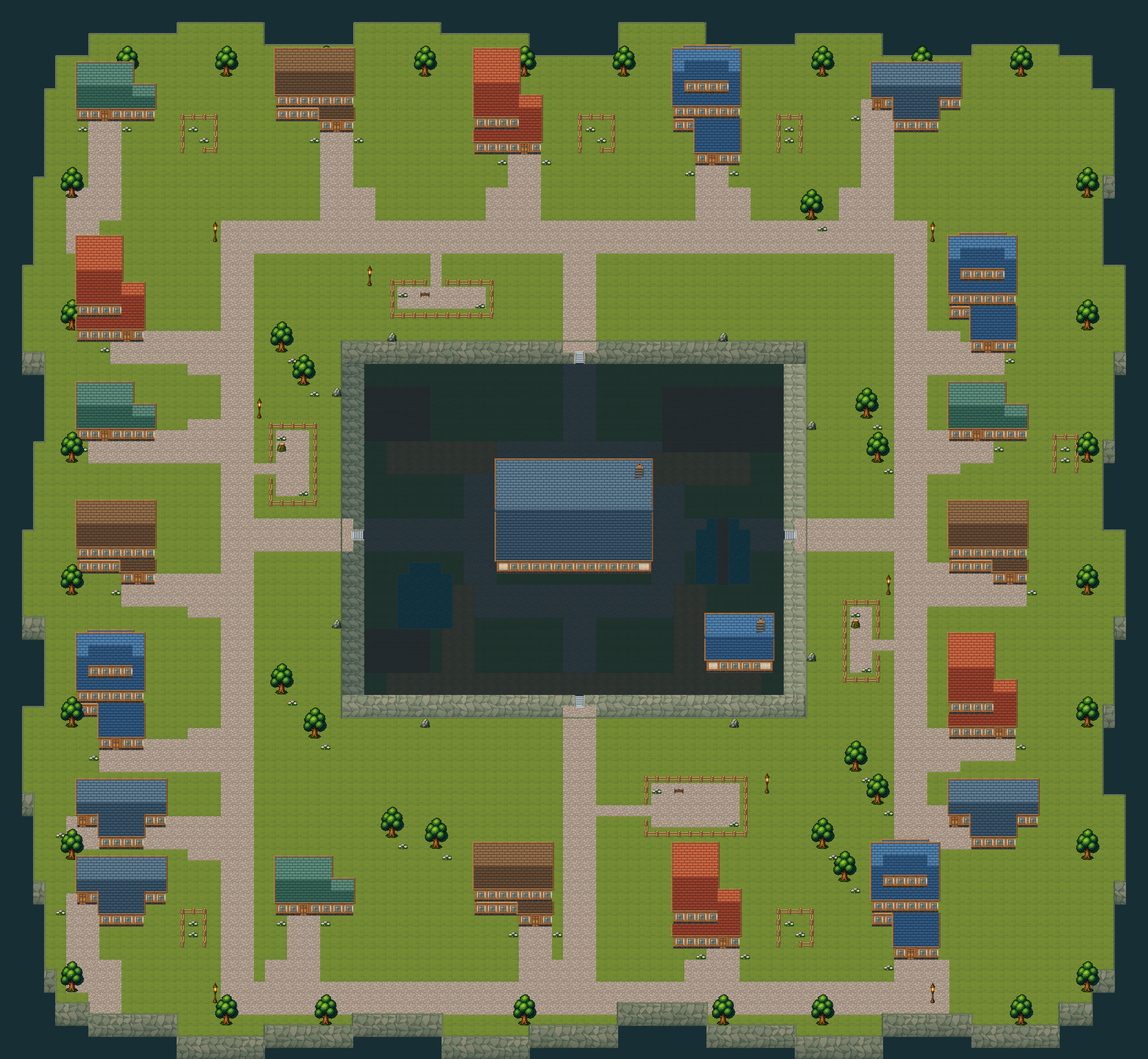
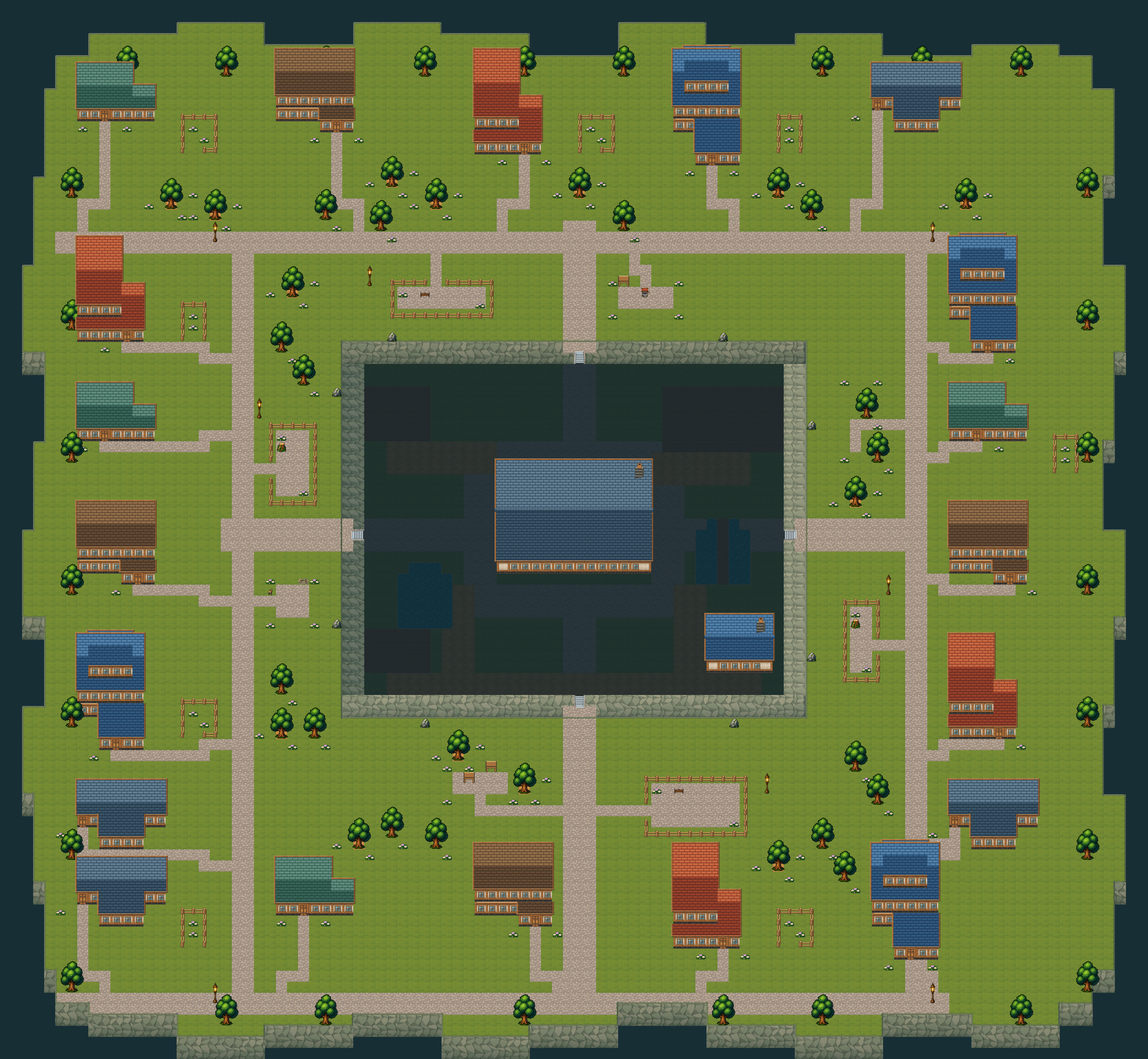
Refine Elderwood housing lanes, groves and shared neighborhood spaces

diff --git a/packages/game-data/src/neighborhood-life.ts b/packages/game-data/src/neighborhood-life.ts
@@ -1,0 +1,51 @@
+import {playerHouses,houseCells} from './housing';
+import {mapObject,type IslandObject} from './island-layout';
+export const neighborhoodPlaces=[
+ {name:'North Well Court',x:55,y:25,w:7,h:4,entry:{x:57,y:24},approach:{x:57,y:22}},
+ {name:'West Flower Walk',x:24,y:52,w:5,h:5,entry:{x:23,y:54},approach:{x:22,y:54}},
+ {name:'South Picnic Green',x:40,y:69,w:7,h:4,entry:{x:43,y:73},approach:{x:51,y:73}},
+ {name:'East Orchard',x:76,y:34,w:4,h:8,entry:{x:80,y:38},approach:{x:82,y:38}},
+] as const;
+/** Purposeful public spaces and loose planting, with all formal routes reserved. */
+export function refineNeighborhood(cells:number[][],objects:IslandObject[],blocked:Set<string>){
+ const homes=new Set(playerHouses.flatMap(h=>[...houseCells(h,0)])),visual=new Set<string>();
+ for(const o of objects)for(let y=Math.floor(o.y/48);y<Math.ceil((o.y+o.h)/48);y++)for(let x=Math.floor(o.x/48);x<Math.ceil((o.x+o.w)/48);x++)visual.add(`${x},${y}`);
+ const clear=(x:number,y:number,w=1,h=1,tree=false)=>{for(let yy=y;yy<y+h;yy++)for(let xx=x;xx<x+w;xx++){
+  if(cells[yy]?.[xx]!==0||blocked.has(`${xx},${yy}`)||homes.has(`${xx},${yy}`)||visual.has(`${xx},${yy}`))return false;
+  if(tree)for(let dy=-1;dy<=1;dy++)for(let dx=-1;dx<=1;dx++)if(homes.has(`${xx+dx},${yy+dy}`))return false;
+ }return true;};
+ const prop=(key:string,x:number,y:number,w=1,h=1,solid=true,name?:string)=>{
+  const o=mapObject(key,x*48,y*48,w*48,h*48,[],name);o.footY=(y+h-.15)*48;
+  if(solid){o.footprint={x:x+Math.floor(w/2),y:y+h-1,width:1,height:1};blocked.add(`${o.footprint.x},${o.footprint.y}`);}
+  objects.push(o);for(let yy=y;yy<y+h;yy++)for(let xx=x;xx<x+w;xx++)visual.add(`${xx},${yy}`);
+ };
+ const pave=(x:number,y:number,material=2)=>{if(cells[y]?.[x]===0&&!homes.has(`${x},${y}`)&&!blocked.has(`${x},${y}`))cells[y][x]=material;};
+ const connect=(a:{x:number;y:number},b:{x:number;y:number})=>{let{x,y}=a;pave(x,y);while(x!==b.x||y!==b.y){if(x!==b.x)x+=Math.sign(b.x-x);else y+=Math.sign(b.y-y);pave(x,y);}};
+ for(const place of neighborhoodPlaces){
+  // Draw a small, irregular paved heart while keeping the green edges open.
+  for(let y=place.y+1;y<place.y+place.h-1;y++)for(let x=place.x+1;x<place.x+place.w-1;x++)if(clear(x,y))pave(x,y);
+  connect(place.approach,place.entry);connect(place.entry,{x:place.x+Math.floor(place.w/2),y:place.y+Math.floor(place.h/2)});
+ }
+ // Public well, quiet seats and a picnic table use the existing directional prop art.
+ for(const[key,x,y,name]of [
+  ['furn-well-down',58,26,'North Well Court'],['furn-bench-down',56,25,'Well court bench'],
+  ['furn-bench-right',24,53,'Flower walk bench'],['furn-planter-down',27,52,'Flower walk planter'],
+  ['furn-table-down',42,70,'Picnic table'],['furn-bench-down',44,69,'Picnic bench'],
+  ['furn-bench-left',79,40,'Orchard bench'],
+ ] as const){if(!homes.has(`${x},${y}`)&&!blocked.has(`${x},${y}`)&&!visual.has(`${x},${y}`)&&(cells[y]?.[x]===0||cells[y]?.[x]===2))prop(key,x,y,1,1,true,name);}
+ const trees=[
+  [14,16],[18,17],[34,14],[38,16],[51,15],[56,16],[69,15],[74,16],[86,16],
+  [13,19],[25,24],[27,34],[24,49],[26,58],[24,64],
+  [75,33],[77,36],[76,43],[76,65],[78,70],[75,75],
+  [14,75],[31,74],[36,76],[40,66],[46,69],[56,75],[61,76],[69,76],[85,75],
+ ];
+ for(const[x,y]of trees)if(clear(x,y,3,3,true)){
+  prop('elderwood-oak',x,y,3,3,true);cells[y+2][x+1]=1;
+  for(const[dx,dy]of [[-1,2],[3,1],[2,3]])if(clear(x+dx,y+dy))prop('woods-flowers',x+dx,y+dy,1,1,false);
+ }
+ for(const p of neighborhoodPlaces)for(const[dx,dy]of [[0,0],[p.w-1,0],[0,p.h-1],[p.w-1,p.h-1]])if(clear(p.x+dx,p.y+dy))prop('woods-flowers',p.x+dx,p.y+dy,1,1,false);
+ for(const[i,h]of playerHouses.entries()){
+  const x=Math.floor(h.door.x)+(i%2?2:-2),y=Math.floor(h.door.y)+1;
+  if(clear(x,y))prop(i%4===0?'furn-barrel-down':i%4===1?'furn-planter-down':'woods-flowers',x,y,1,1,i%4<2);
+ }
+}

diff --git a/packages/game-data/src/grid-world.ts b/packages/game-data/src/grid-world.ts
@@ -1,3 +1,4 @@
+import {refineNeighborhood} from './neighborhood-life';
 import {dressNeighborhood} from './neighborhood-dressing';
 import {housingRegions,houseFloorIndex,playerHouses,houseCells} from './housing';
 import {elderwoodTown,elderwoodSize,elderwoodRimStairs,elderwoodStairTile,onElderwoodRim,onElderwoodLand} from './elderwood-layout';
@@ -192,10 +193,12 @@ export function gridMap(region:string,authored=false):GridMap{
    for(let y=1;y<height-1;y++)for(let x=1;x<width-1;x++)if(onElderwoodRim(x,y))rect(x,y,1,1,0);
    // One-cell-wide stair recesses join the upper walk to the physical stair tile.
    for(const s of elderwoodRimStairs){const p=elderwoodStairTile(s);let x=Math.floor(s.top.x),y=Math.floor(s.top.y);const tx=Math.floor(p.x),ty=Math.floor(p.y);rect(x,y,1,1,2);while(x!==tx||y!==ty){x+=Math.sign(tx-x);y+=Math.sign(ty-y);rect(x,y,1,1,2);}}
-   // A connected promenade and short drives reach every front door.
-   path([[21,21],[82,21],[82,90],[21,90],[21,21]],2);
+   // Two-cell promenades and single-cell side lanes keep the housing streets compact.
+   const lane=(points:readonly (readonly [number,number])[],width=1)=>{for(let i=1;i<points.length;i++){let[x,y]=points[i-1];const[tx,ty]=points[i];rect(x,y,width,width,2);while(x!==tx||y!==ty){x+=Math.sign(tx-x);y+=Math.sign(ty-y);rect(x,y,width,width,2);}}};
+   lane([[21,21],[82,21],[82,90],[21,90],[21,21]],2);
+   lane([[5,21],[84,21]],2);lane([[5,90],[84,90]],2);
    path([[52,30],[52,21]],2);path([[30,48],[21,48]],2);path([[73,48],[82,48]],2);path([[52,65],[52,90]],2);
-   for(const[i,h]of playerHouses.entries()){const x=Math.floor(h.door.x),y=Math.floor(h.door.y)+1,bend=i%2?2:-2;if(h.side==='north')path([[x,y],[x,18],[x+bend,18],[x+bend,21]],2);else if(h.side==='south')path([[x,y],[x,88],[x+bend,88],[x+bend,90]],2);else{const lane=h.side==='west'?18:85;path([[x,y],[lane,y],[lane,y+(i%2?1:-1)],[h.side==='west'?21:82,y+(i%2?1:-1)]],2);}}
+   for(const[i,h]of playerHouses.entries()){const x=Math.floor(h.door.x),y=Math.floor(h.door.y)+1,bend=i%2?2:-2;if(h.side==='north')lane([[x,y],[x,18],[x+bend,18],[x+bend,21]]);else if(h.side==='south')lane([[x,y],[x,88],[x+bend,88],[x+bend,90]]);else{const driveX=h.side==='west'?18:85,frontY=Math.max(y,...h.floors[0].map(r=>r.y+r.h));lane([[x,y],[x,frontY],[driveX,frontY],[driveX,frontY+(i%2?1:-1)],[h.side==='west'?21:82,frontY+(i%2?1:-1)]]);}}
   }
  }
  const homeFloor=houseFloorIndex(region);
@@ -208,7 +211,7 @@ export function gridMap(region:string,authored=false):GridMap{
   }}
  }
  if(region==='elderwood-upper'){const edgeTree=(x:number,y:number)=>{if(onElderwoodLand(x+1,y+2))prop('elderwood-oak',x,y,3,3,1,1,1);};for(const x of [10,19,28,37,46,55,64,73,82,91]){edgeTree(x,4);edgeTree(x,90);}for(const y of [15,27,39,51,63,75,87]){edgeTree(5,y);edgeTree(97,y);}for(const[x,y]of [[19,20],[84,20],[19,89],[84,89]])prop('elderwood-lamp',x,y,1,2,1,1);}
- if(region==='elderwood-upper'){dressNeighborhood(cells,objects,blocked);for(let y=0;y<height;y++)for(let x=0;x<width;x++)if(!onElderwoodLand(x,y))cells[y][x]=5;}
+ if(region==='elderwood-upper'){dressNeighborhood(cells,objects,blocked);refineNeighborhood(cells,objects,blocked);for(let y=0;y<height;y++)for(let x=0;x<width;x++)if(!onElderwoodLand(x,y))cells[y][x]=5;}
  const override=authored?{}:storedEdit(region);
  if(override.cells)for(let y=0;y<height;y++)cells[y]=[...override.cells[y]];
  if(override.props||override.removedProps)applyPropEdits(objects,blocked,override);

diff --git a/tests/neighborhood-life.test.ts b/tests/neighborhood-life.test.ts
@@ -1,0 +1,11 @@
+import {test} from 'node:test';import assert from 'node:assert/strict';
+import {gridMap,gridCrossesWall,playerHouses,elderwoodRimStairs,elderwoodStairTile,neighborhoodPlaces} from '@realm/game-data';
+import {legal,pathfind} from '@realm/shared';
+test('compact housing lanes connect all twenty doors and the new public spaces without crossing grass',()=>{
+ const region='elderwood-upper',m=gridMap(region),start=elderwoodStairTile(elderwoodRimStairs[0]),seen=new Set<string>(),queue=[[Math.floor(start.x),Math.floor(start.y)]];
+ for(let i=0;i<queue.length;i++){const[x,y]=queue[i],key=`${x},${y}`;if(seen.has(key)||m.cells[y]?.[x]!==2||m.blocked.has(key))continue;seen.add(key);for(const[dx,dy]of [[0,-1],[1,0],[0,1],[-1,0]])if(!gridCrossesWall(region,{x:x+.5,y:y+.5},{x:x+dx+.5,y:y+dy+.5}))queue.push([x+dx,y+dy]);}
+ for(const h of playerHouses)assert.ok(seen.has(`${Math.floor(h.door.x)},${Math.floor(h.door.y)+1}`),h.id+' paved doorstep');
+ for(const p of neighborhoodPlaces){assert.ok(seen.has(`${p.entry.x},${p.entry.y}`),p.name+' connected entry');const center={x:p.x+Math.floor(p.w/2)+.5,y:p.y+Math.floor(p.h/2)+.5};assert.ok(legal(center,region),p.name+' usable center');assert.ok(pathfind(start,center,region).length,p.name+' reachable');}
+ assert.equal(m.cells[15][9],2,'one-cell cottage lane');assert.equal(m.cells[15][8],0,'grass restored beside narrow lane');assert.equal(m.cells[21][35],2);assert.equal(m.cells[22][35],2);assert.equal(m.cells[20][35],0,'two-cell promenade');
+ for(const name of ['North Well Court','Picnic table','Flower walk bench'])assert.ok(m.objects.some(o=>o.name===name),name+' placed');
+});

diff --git a/packages/game-data/src/index.ts b/packages/game-data/src/index.ts
@@ -94,3 +94,5 @@ export type {GridDocument,GridEdits,EditorProp,EditorSpawn} from './grid-editing
 export {authoredGridSpawns} from './grid-world';
 
 export {townPoint,elderwoodTown,elderwoodSize,elderwoodPortal,elderwoodRimStairs,elderwoodStairTile,onElderwoodRim,onElderwoodLand} from './elderwood-layout';
+
+export * from './neighborhood-life';

diff --git a/docs/player-housing.md b/docs/player-housing.md
@@ -48,3 +48,11 @@ All new garden fences, plus the original village garden's visible fences, assemb
 `npm run art:fences` regenerates SVG masters and transparent PNG parts. `npm run test:fences:browser` checks every possible reciprocal tile join pixel-for-pixel and renders an editor close-up. Shared tests verify actual mask neighbors, solid fences, open gates, usable courtyard interiors and routes to every house. The original village regression hash remains unchanged. `npm run test:neighborhood:integration` against the current game server exercises real gate entry/exit, an attempted move through a fence and the route back to a house.
 
 These decorations add shared collision on the cliff walk: deploy Render and Vercel together. No additional database migration is needed for the garden/fence polish.
+
+## Neighborhood streets and public spaces
+
+Housing drives now use one-cell lanes; the promenade uses two cells while the four main village approaches remain broad. North and south streets extend to the outer cottages. Side drives route below the complete house footprint, including L-shaped wings. All twenty paved doorsteps connect without requiring grass shortcuts.
+
+The upper belt includes North Well Court, West Flower Walk, South Picnic Green and East Orchard, with seats, planting and connections to the street network. Loose oak groves and small garden props use existing sprites, with single-cell solid footprints and clear formal paths. House IDs, prices, geometry, owners, displays and the original village are preserved. These decorative trees and flowers are not gathering resources.
+
+Run `npm run test:neighborhood-life:browser` for desktop/mobile walking and screenshots of the four places. The unit suite checks paved access to every house and public space. Deploy Render and Vercel together for the new prop collisions; no SQL migration is needed.
